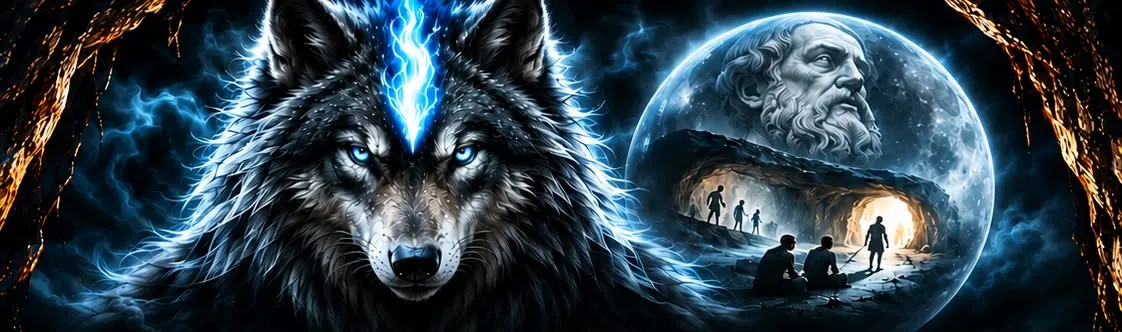
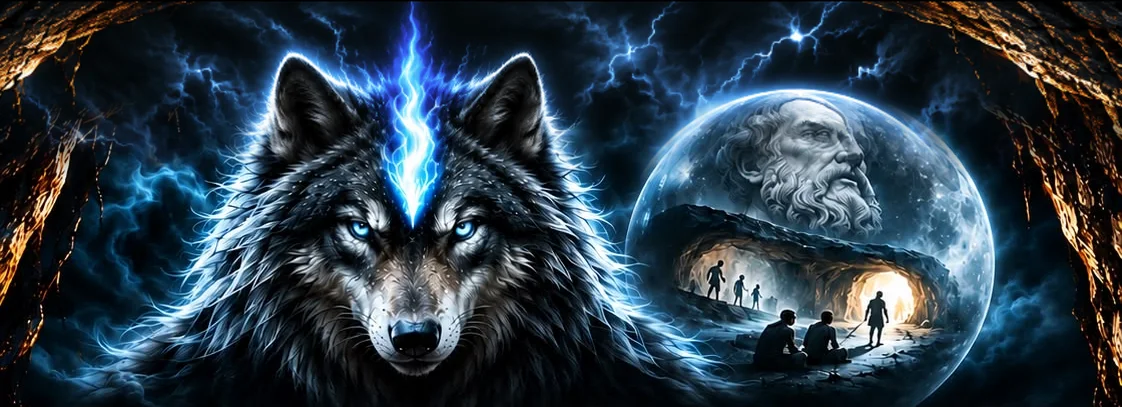
Manifesto: topo da arte reconstruído para as orelhas do lobo ficarem inteiras
Claude-Session: https://claude.ai/code/session_01F8QanABuMAM8vshpotZvnT

diff --git a/src/app/painel/comunidade/manifesto/manifesto.css b/src/app/painel/comunidade/manifesto/manifesto.css
@@ -8,7 +8,7 @@
 .wfm-gold { background: linear-gradient(180deg, #f6e6b4 0%, #d9b45a 60%, #b08a3a 100%); -webkit-background-clip: text; background-clip: text; color: transparent; }
 
 .wfm-hero { position: relative; }
-.wfm-hero img { display: block; width: 100%; height: auto; -webkit-mask-image: linear-gradient(transparent, #000 2%, #000 62%, transparent), linear-gradient(to right, transparent, #000 10%, #000 90%, transparent); -webkit-mask-composite: source-in; mask-image: linear-gradient(transparent, #000 2%, #000 62%, transparent), linear-gradient(to right, transparent, #000 10%, #000 90%, transparent); mask-composite: intersect; }
+.wfm-hero img { display: block; width: 100%; height: auto; -webkit-mask-image: linear-gradient(transparent, #000 7%, #000 66%, transparent), linear-gradient(to right, transparent, #000 10%, #000 90%, transparent); -webkit-mask-composite: source-in; mask-image: linear-gradient(transparent, #000 7%, #000 66%, transparent), linear-gradient(to right, transparent, #000 10%, #000 90%, transparent); mask-composite: intersect; }
 .wfm-hero { padding-top: 0.75rem; }
 .wfm-title { text-align: center; padding: 0 1.25rem 1.5rem; margin-top: -2.5rem; position: relative; }
 @media (max-width: 640px) { .wfm-title { margin-top: 0.25rem; } }
